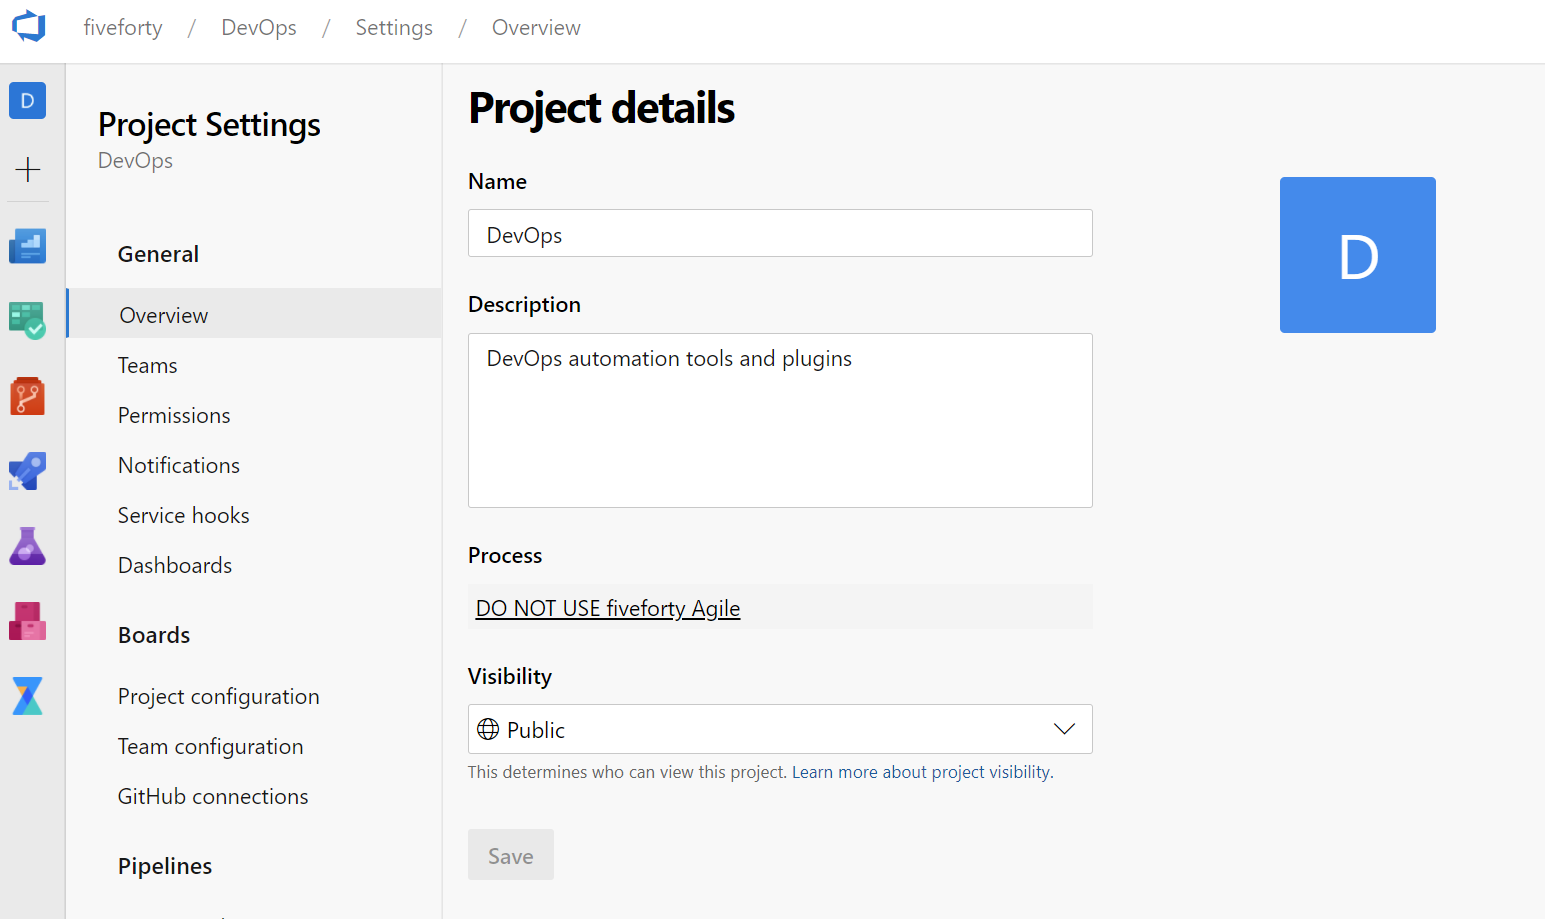
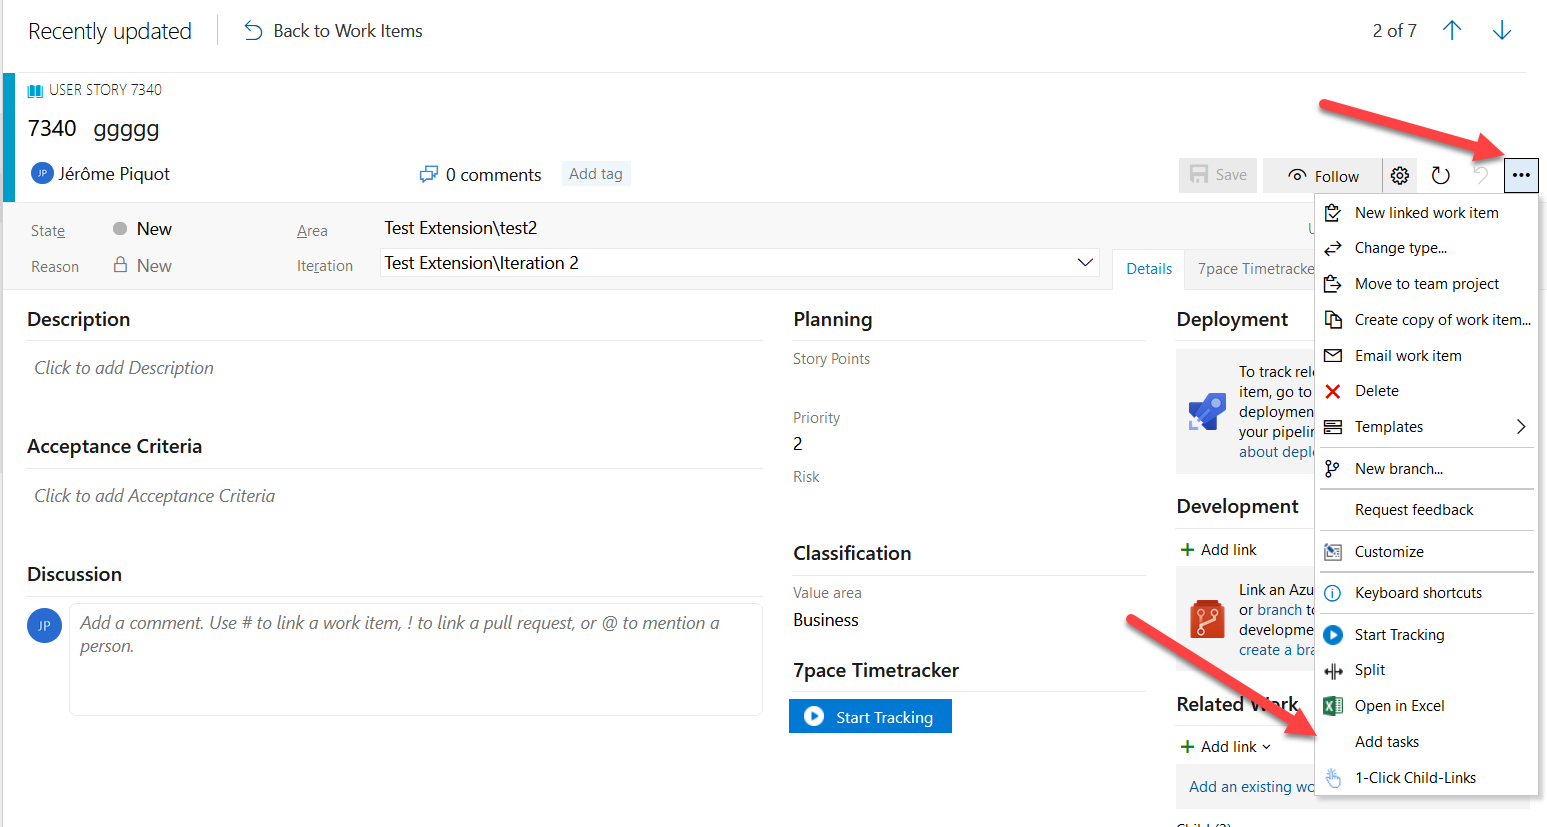
add demo template & update screenshots

diff --git a/src/extension/ChildTasksService.ts b/src/extension/ChildTasksService.ts
@@ -67,7 +67,7 @@ class ChildTasksService {
         if (!task) {
           continue;
         }
-        for (let j = 0; i < task.fields.length; i++) {
+        for (let j = 0; j < task.fields.length; j++) {
           const field = task.fields[j] as IFieldTemplate;
           if (!field) {
             continue;
@@ -75,7 +75,7 @@ class ChildTasksService {
           patch.push(
             this.newFieldOperation(
               field.name,
-              ChildTasksService.interpolate(name, parent)
+              ChildTasksService.interpolate(field.value, parent)
             )
           );
         }
@@ -89,7 +89,11 @@ class ChildTasksService {
       }
     }
   }
-  private static interpolate(text: string, parent: WorkItem): string {
+  private static interpolate(text: string | null | undefined, parent: WorkItem): string | null {
+    if (!text)
+    {
+      return null;
+      }
     let obj = {};
     const keys = Object.keys(parent.fields);
     for (const key of keys) {
